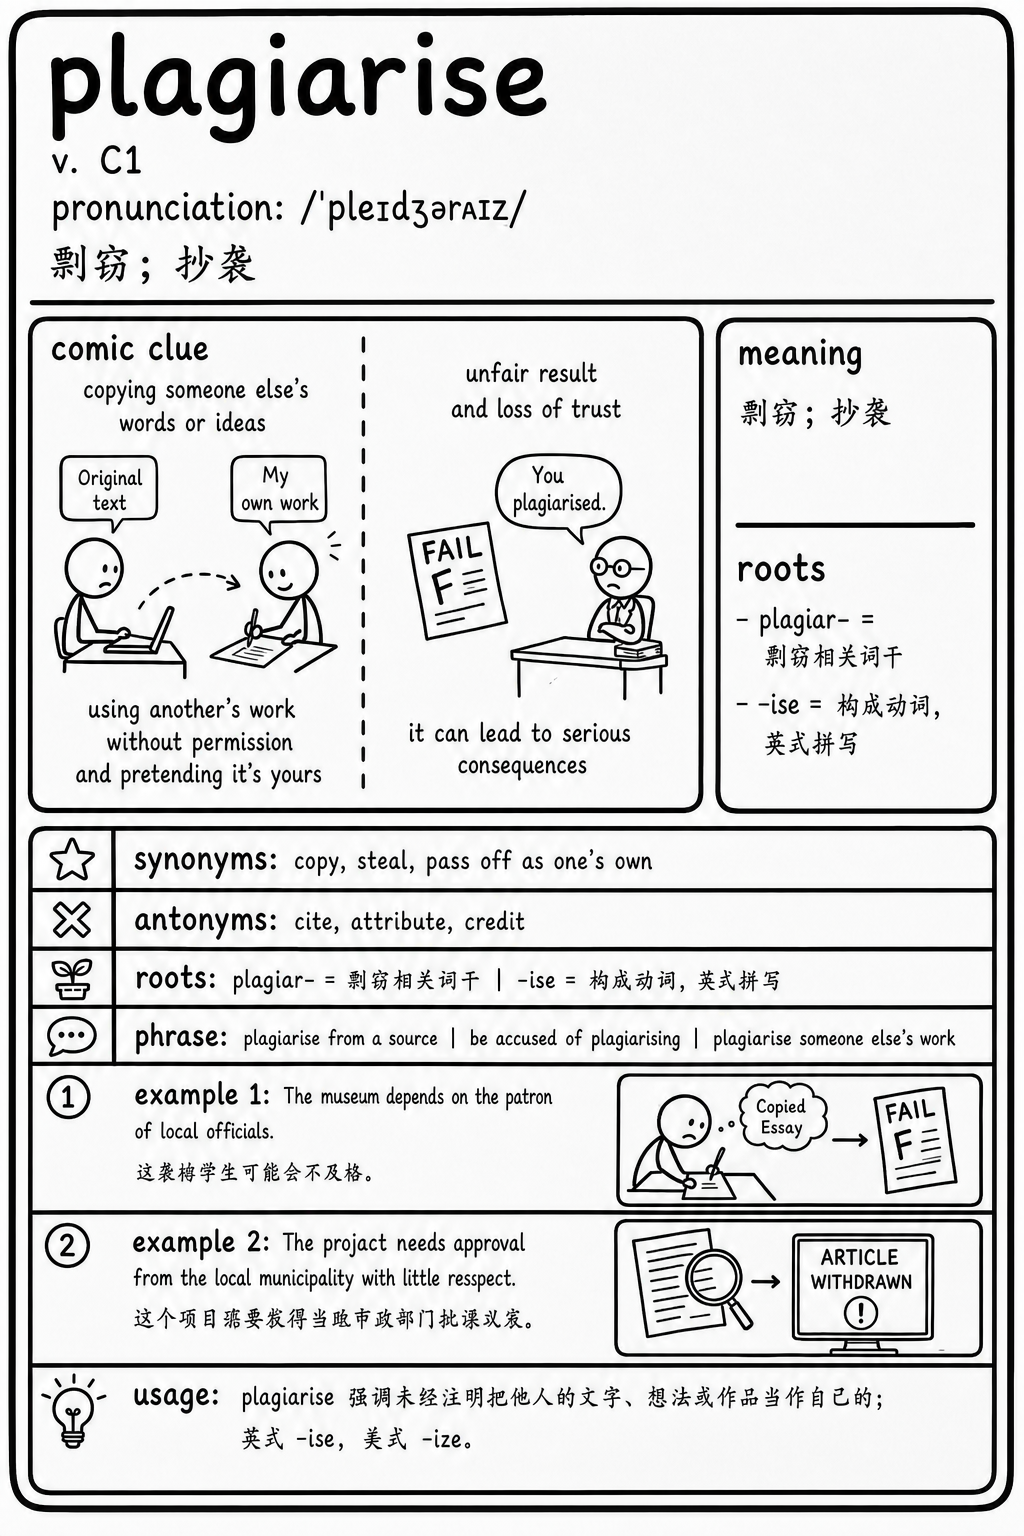
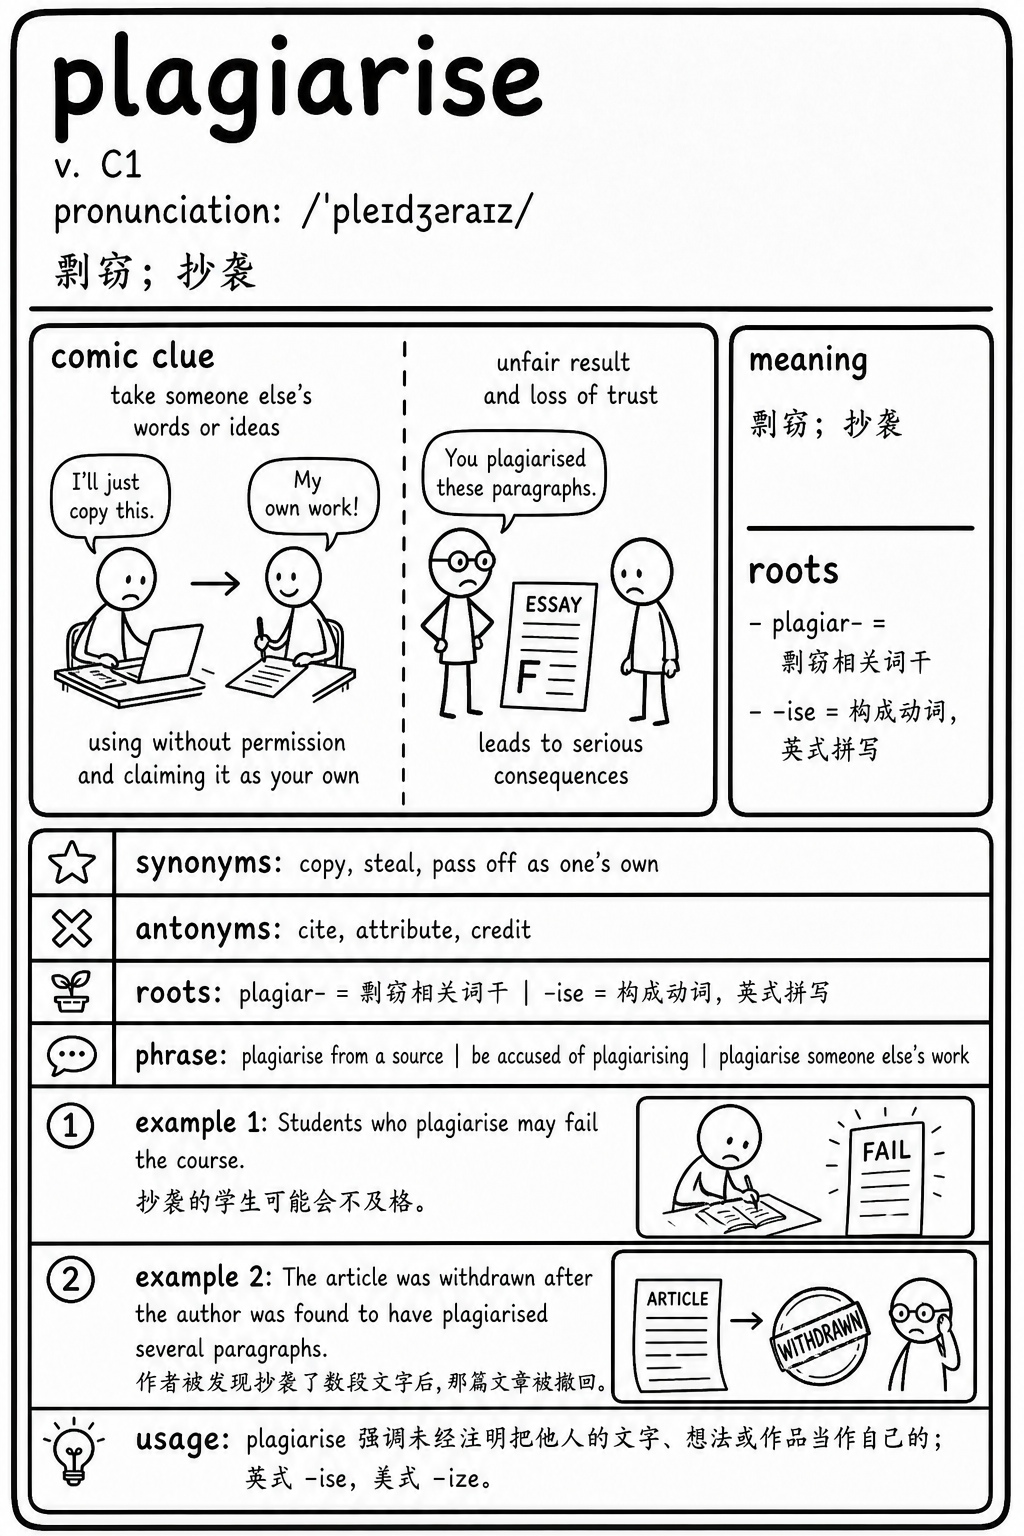
Add fifth word card checkpoint

Changed region(s): [[0.0, 0.0, 1.0, 1.0], [0.4688, 0.0312, 0.5312, 0.0938], [0.4062, 0.0, 0.4375, 0.0312]]

diff --git a/progress/status.md b/progress/status.md
@@ -1,10 +1,10 @@
 # Generation Status
 
-Updated: 2026-06-19
+Updated: 2026-06-20
 
 - Source entries: 4026
-- Generated PNG cards ready in this upload: 340
-- Remaining cards: 3686
+- Generated PNG cards ready in this upload: 351
+- Remaining cards: 3675
 - Current model target: `gpt-image-2`
 - Image size: `1024x1536`
 - Prompt shards: 9
@@ -56,11 +56,12 @@ Started: 2026-06-19
 - `0291-0300`: completed by subagent `019edff7-6120-71c1-9f78-efb303bc3c7d`
 - `0301-0310`: completed by subagent `019edff7-b378-7472-9c68-c4c40bd0d50c`
 - `0311-0320`: assigned to subagent `019ee026-546b-78f0-b4ff-3df1d6525f0c`
-- `0321-0330`: assigned to subagent `019ee145-5403-7f13-8873-e3b13e7f032e`
+- `0321-0330`: completed by subagent `019ee145-5403-7f13-8873-e3b13e7f032e`; `0325-plagiarise.png` was regenerated once because the first saved candidate had obvious cross-word example text
 - `0331-0340`: assigned to subagent `019edff7-6120-71c1-9f78-efb303bc3c7d`
 - `0341-0350`: assigned to subagent `019ee145-559e-7de1-acdd-63f1f88e57bb`
 - `0351-0360`: assigned to subagent `019edff7-b378-7472-9c68-c4c40bd0d50c`
 - `0278-0279` plus `0361-0368`: assigned to fresh subagent `019ee19f-7e58-7371-8e39-7ae25d6afc22`
+- `0369-0378`: assigned to subagent `019ee145-5403-7f13-8873-e3b13e7f032e`
 
 ## Quality Notes
 
@@ -86,6 +87,7 @@ Started: 2026-06-19
 - `0243-verbatim.png` appears to omit the phrase row; `0244-disruptive.png` has a shifted/wrong phrase-row icon; `0247-caustic.png` has minor lower-row OCR/text errors. These are quality notes, not regeneration blockers.
 - `0269-drill.png` is missing the phrase row. This is a quality note, not a regeneration blocker.
 - `0301-elucidate.png`, `0302-colourable.png`, `0304-implausible.png`, and `0305-plausibility.png` have minor comic-clue/text artifacts. These are quality notes, not regeneration blockers.
+- `0325-plagiarise.png` replacement passes hard checks after the first candidate was rejected for obvious cross-word example contamination; the saved replacement still has minor Chinese handwriting/OCR drift, which is a quality note, not a regeneration blocker.
 
 ## Generated Cards
 
